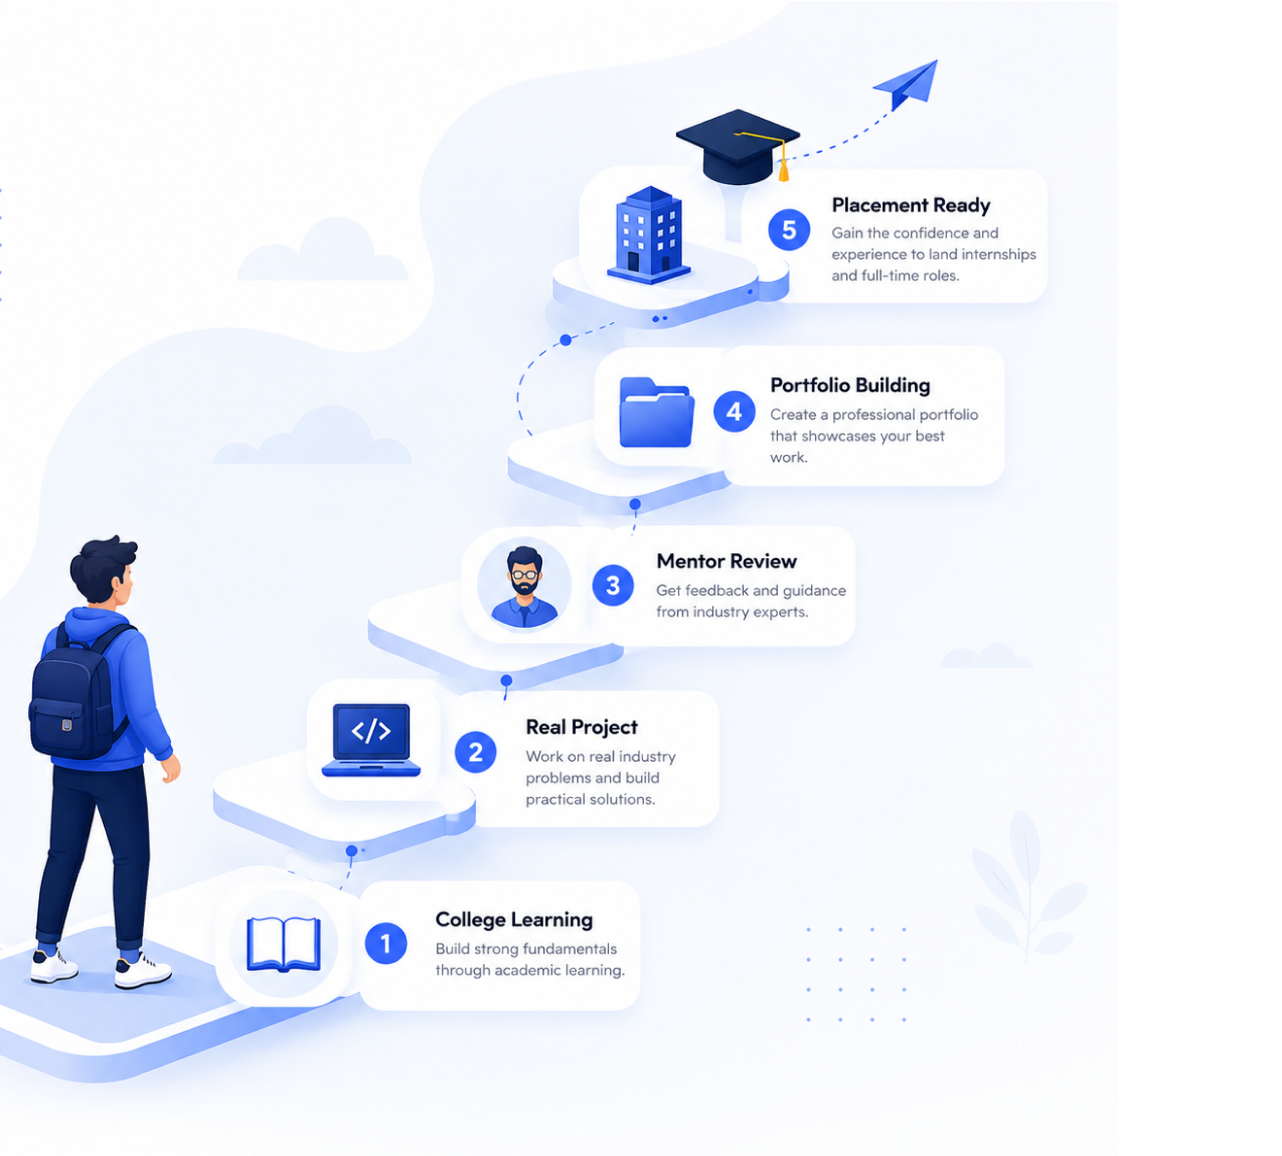
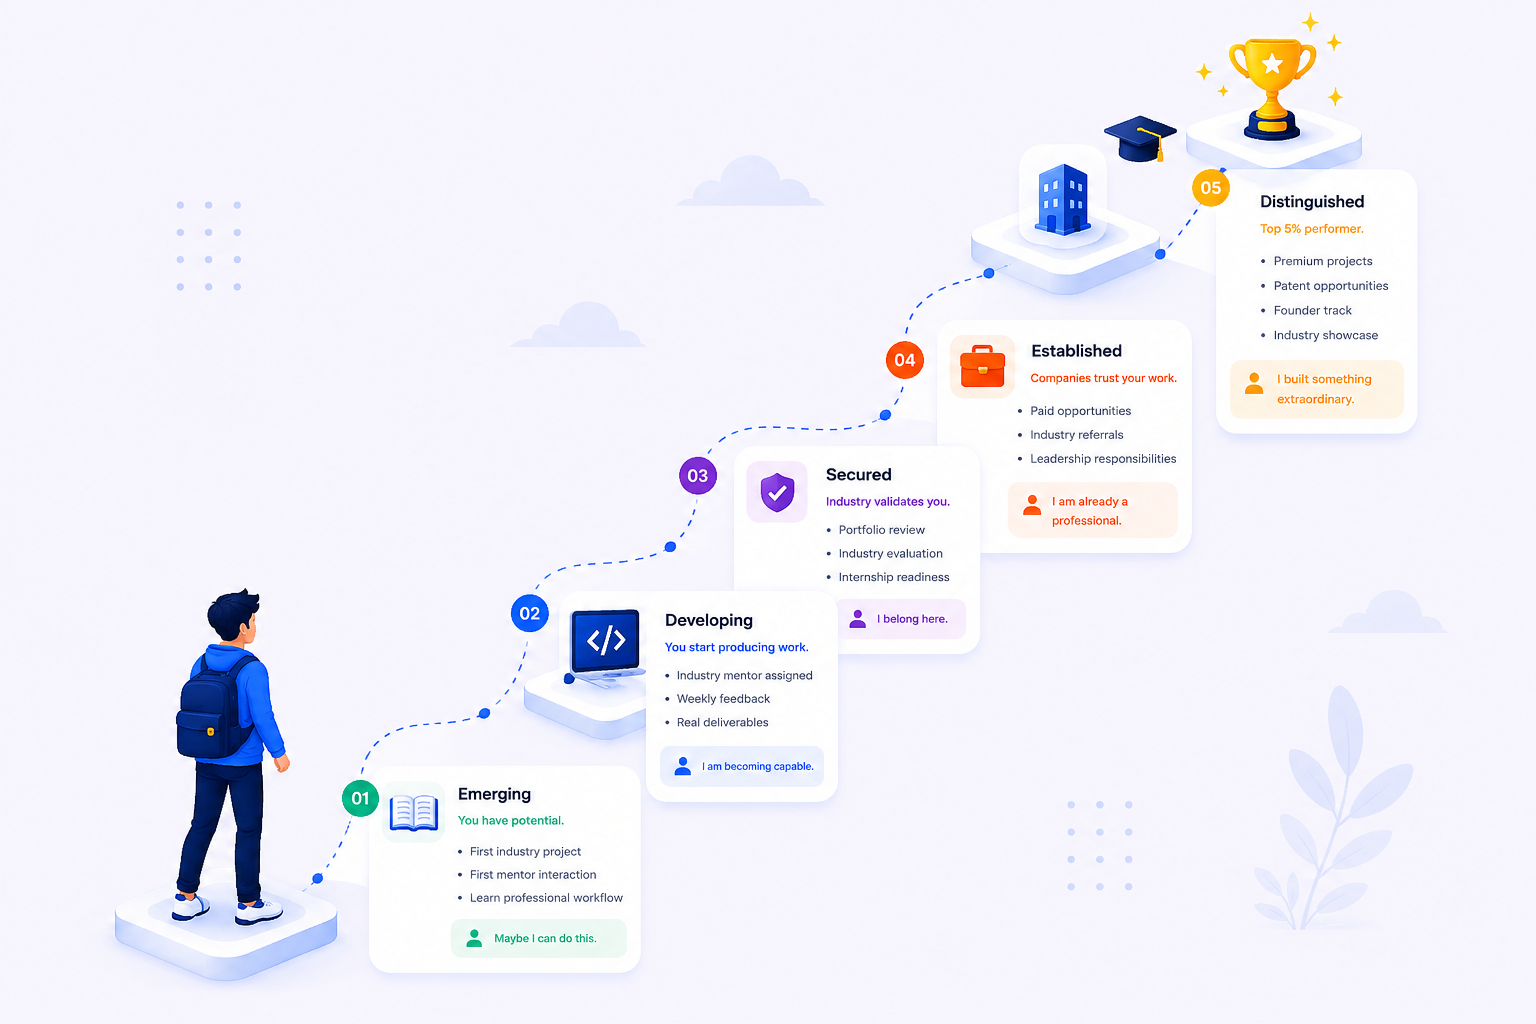
and the project showcase and  hero section img

Changed region(s): [[0.0, 0.0312, 0.936, 0.9688], [0.8424, 0.6875, 0.936, 0.8125], [0.8424, 0.875, 0.8736, 0.9062]]

diff --git a/frontend/src/features/landing/components/project-showcase-section.tsx b/frontend/src/features/landing/components/project-showcase-section.tsx
@@ -1,0 +1,117 @@
+"use client";
+
+import { useEffect, useRef } from "react";
+import { PROJECT_SHOWCASE_ITEMS, ROUTES } from "@/constants";
+import { Button, SectionLabel } from "@/components/ui";
+import { cn } from "@/lib/utils";
+
+type DomainTone = (typeof PROJECT_SHOWCASE_ITEMS)[number]["domainTone"];
+
+function domainToneClass(tone: DomainTone): string {
+  if (tone === "blue") return "text-blue-600";
+  if (tone === "emerald") return "text-emerald-600";
+  if (tone === "violet") return "text-violet-600";
+  return "text-amber-600";
+}
+
+function ProjectCard({
+  domain,
+  title,
+  meta,
+  domainTone,
+}: (typeof PROJECT_SHOWCASE_ITEMS)[number]) {
+  return (
+    <article className="w-[220px] shrink-0 rounded-xl border border-border bg-white px-4 py-3.5 transition-colors hover:border-border/80 sm:w-[240px]">
+      <p
+        className={cn(
+          "text-[10px] font-semibold uppercase tracking-wider",
+          domainToneClass(domainTone),
+        )}
+      >
+        {domain}
+      </p>
+      <h3 className="mt-1 text-sm font-semibold text-foreground">{title}</h3>
+      <p className="mt-1 text-xs text-muted">{meta}</p>
+    </article>
+  );
+}
+
+export function ProjectShowcaseSection() {
+  const trackRef = useRef<HTMLDivElement>(null);
+  const offsetRef = useRef(0);
+  const pausedRef = useRef(false);
+
+  useEffect(() => {
+    const track = trackRef.current;
+    if (!track) return;
+
+    let animationFrame = 0;
+
+    const tick = () => {
+      if (!pausedRef.current && track) {
+        const halfWidth = track.scrollWidth / 2;
+        offsetRef.current += 1.2;
+        if (halfWidth > 0 && offsetRef.current >= halfWidth) {
+          offsetRef.current = 0;
+        }
+        track.style.transform = `translateX(-${offsetRef.current}px)`;
+      }
+      animationFrame = requestAnimationFrame(tick);
+    };
+
+    animationFrame = requestAnimationFrame(tick);
+    return () => cancelAnimationFrame(animationFrame);
+  }, []);
+
+  const tickerItems = [...PROJECT_SHOWCASE_ITEMS, ...PROJECT_SHOWCASE_ITEMS];
+
+  return (
+    <section id="projects" className="overflow-x-hidden bg-white py-16 sm:py-24">
+      <div className="mx-auto max-w-7xl px-4 sm:px-6 lg:px-8">
+        <div className="mx-auto max-w-2xl text-center">
+          <SectionLabel showAccent={false}>What students are building</SectionLabel>
+          <h2 className="mt-4 font-display text-3xl font-bold tracking-tight text-foreground sm:text-4xl">
+            Real projects. Real companies. Every domain.
+          </h2>
+          <p className="mt-4 text-base leading-relaxed text-muted sm:text-lg">
+            AI, data, engineering, finance, operations, product — IMReady projects span
+            every stream and every year of college.
+          </p>
+        </div>
+      </div>
+
+      <div className="relative mt-10 sm:mt-12">
+        <div
+          className="pointer-events-none absolute inset-y-0 left-0 z-10 w-16 bg-gradient-to-r from-white to-transparent sm:w-20"
+          aria-hidden="true"
+        />
+        <div
+          className="pointer-events-none absolute inset-y-0 right-0 z-10 w-16 bg-gradient-to-l from-white to-transparent sm:w-20"
+          aria-hidden="true"
+        />
+        <div
+          className="overflow-hidden"
+          onMouseEnter={() => {
+            pausedRef.current = true;
+          }}
+          onMouseLeave={() => {
+            pausedRef.current = false;
+          }}
+        >
+          <div ref={trackRef} className="flex w-max gap-2.5 px-4 sm:px-6 lg:px-8">
+            {tickerItems.map((project, index) => (
+              <ProjectCard key={`${project.title}-${index}`} {...project} />
+            ))}
+          </div>
+        </div>
+      </div>
+
+      <div className="mt-9 text-center sm:mt-10">
+        <Button href={ROUTES.signupStep(1)} size="lg">
+          Find your project brief
+          <span aria-hidden="true">→</span>
+        </Button>
+      </div>
+    </section>
+  );
+}

diff --git a/frontend/src/constants/landing.ts b/frontend/src/constants/landing.ts
@@ -104,6 +104,63 @@ export const WHY_CHOOSE_FEATURES = [
   },
 ] as const;
 
+export const PROJECT_SHOWCASE_ITEMS = [
+  {
+    domain: "AI / ML",
+    title: "Student Dropout Predictor",
+    meta: "9 wks · Team of 3",
+    domainTone: "blue",
+  },
+  {
+    domain: "Web Dev",
+    title: "Campus Event Portal",
+    meta: "9 wks · Solo · GitHub",
+    domainTone: "emerald",
+  },
+  {
+    domain: "Data Analytics",
+    title: "FMCG Market Dashboard",
+    meta: "9 wks · Industry brief",
+    domainTone: "violet",
+  },
+  {
+    domain: "IoT / Embedded",
+    title: "Smart Energy Monitor",
+    meta: "9 wks · Team of 4",
+    domainTone: "amber",
+  },
+  {
+    domain: "Business Strategy",
+    title: "Go-to-Market · D2C Brand",
+    meta: "9 wks · MBA track",
+    domainTone: "emerald",
+  },
+  {
+    domain: "Finance",
+    title: "Equity Research — EV Sector",
+    meta: "9 wks · Finance track",
+    domainTone: "violet",
+  },
+  {
+    domain: "Cybersecurity",
+    title: "Web App Vulnerability Scan",
+    meta: "9 wks · CS track",
+    domainTone: "blue",
+  },
+  {
+    domain: "Product",
+    title: "Feature Roadmap · EdTech",
+    meta: "9 wks · MBA/CS",
+    domainTone: "amber",
+  },
+  {
+    domain: "Operations",
+    title: "Hostel Check-in Redesign",
+    meta: "9 wks · Mgmt · SOP",
+    domainTone: "emerald",
+  },
+] as const;
+
 export const COMPARISON_ROWS = [
   {
     feature: "Dedicated Mentorship",

diff --git a/frontend/src/features/landing/components/hero-section.tsx b/frontend/src/features/landing/components/hero-section.tsx
@@ -1,7 +1,6 @@
 import Image from "next/image";
 import { PLATFORM_STATS, ROUTES } from "@/constants";
 import { Button } from "@/components/ui";
-import { cn } from "@/lib/utils";
 
 export function HeroSection() {
   return (
@@ -37,20 +36,14 @@ export function HeroSection() {
             </div>
           </div>
 
-          <div
-            id="journey"
-            className="relative flex w-full items-center justify-center lg:justify-end"
-          >
+          <div id="journey" className="relative w-full lg:flex lg:items-center lg:justify-end">
             <Image
               src="/hero-section.png"
               alt="Five-step journey from college learning to placement ready: real projects, mentor review, portfolio building, and career readiness."
-              width={927}
-              height={461}
+              width={1536}
+              height={1024}
               priority
-              className={cn(
-                "h-auto w-full max-w-none object-contain",
-                "lg:max-w-[115%] lg:translate-x-2 xl:max-w-[120%] xl:translate-x-4",
-              )}
+              className="h-auto w-full object-contain object-center lg:object-right"
               sizes="(max-width: 1024px) 100vw, 50vw"
             />
           </div>

diff --git a/frontend/src/app/page.tsx b/frontend/src/app/page.tsx
@@ -2,6 +2,7 @@ import { Navbar, Footer } from "@/components/layout";
 import {
   HeroSection,
   HowItWorksSection,
+  ProjectShowcaseSection,
   WhyChooseSection,
   AdvantageSection,
 } from "@/features/landing";
@@ -13,6 +14,7 @@ export default function HomePage() {
       <main>
         <HeroSection />
         <HowItWorksSection />
+        <ProjectShowcaseSection />
         <WhyChooseSection />
         <AdvantageSection />
       </main>

diff --git a/frontend/src/features/landing/index.ts b/frontend/src/features/landing/index.ts
@@ -1,5 +1,6 @@
 export { HeroSection } from "./components/hero-section";
 export { HowItWorksSection } from "./components/how-it-works-section";
+export { ProjectShowcaseSection } from "./components/project-showcase-section";
 export { WhyChooseSection } from "./components/why-choose-section";
 export { AdvantageSection } from "./components/advantage-section";
 export { FeatureIcon } from "./components/feature-icon";
